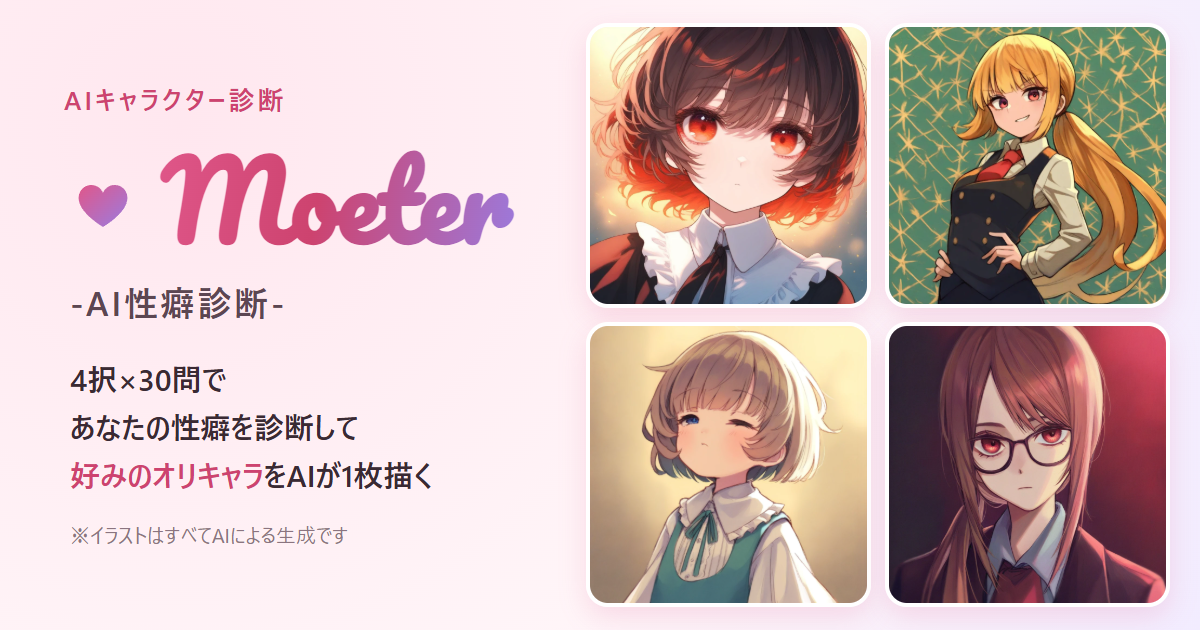
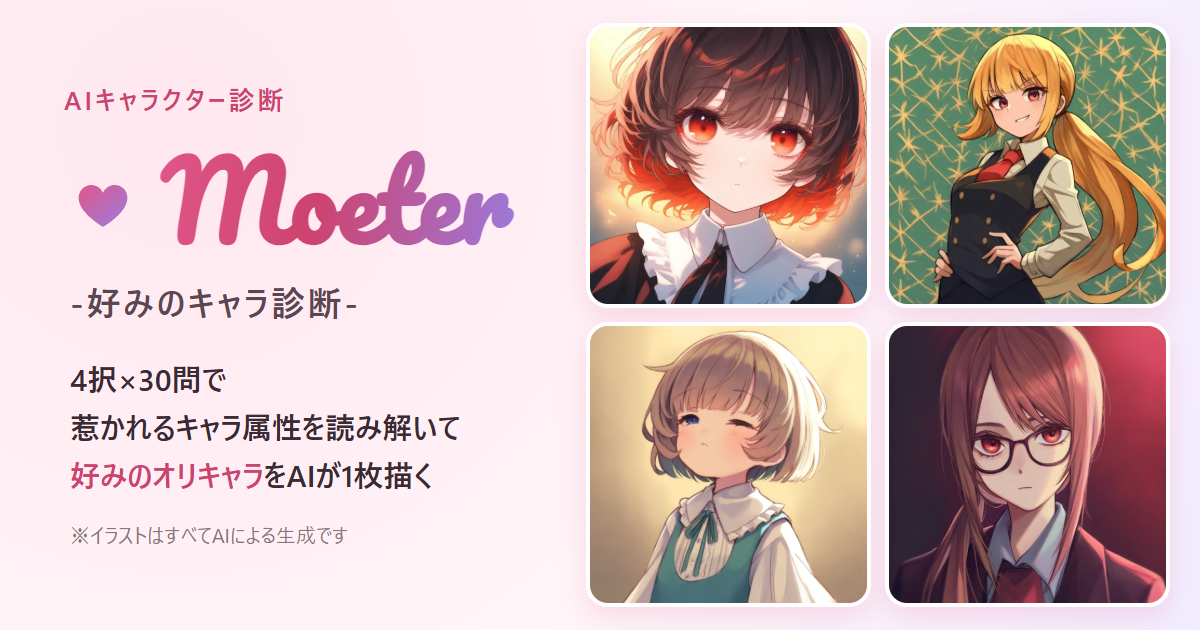
制作物: Moeter の掲載画像から「性癖」の文言を外す。webp 変換は元画像が新しければ作り直す

Changed region(s): [[0.0617, 0.6333, 0.4008, 0.7238], [0.0617, 0.4524, 0.3083, 0.5127]]

diff --git a/TODO.md b/TODO.md
@@ -8,7 +8,7 @@
 ## コンテンツ拡充（再申請に向けて。詳細はローカルの `CONTENT_PLAN.md`）
 - [ ] 記事を週3本ペースで公開（ネタ帳は `CONTENT_PLAN.md`）
 - [ ] gcp-vm-egress-404-gzip に Standard ティアの結果を追記（2026-10-19 以降、GCP コンソールの SKU 別レポートで Carrier Peering の課金が消えたか確認）
-- [ ] Moeter の掲載画像（「AI性癖診断」の文字入り）を差し替えるか判断
+- [x] Moeter の掲載画像から「性癖」の文言を外した（10-25。生成元は moeter の front/scripts/ogp-card.html、ポートフォリオ用だけ差し替え）
 
 ## インデックス対策（10-20 フェーズ1・GitHub 側のリンク整備は完了）
 - [ ] 新規記事の公開は週2〜3本までに抑える
